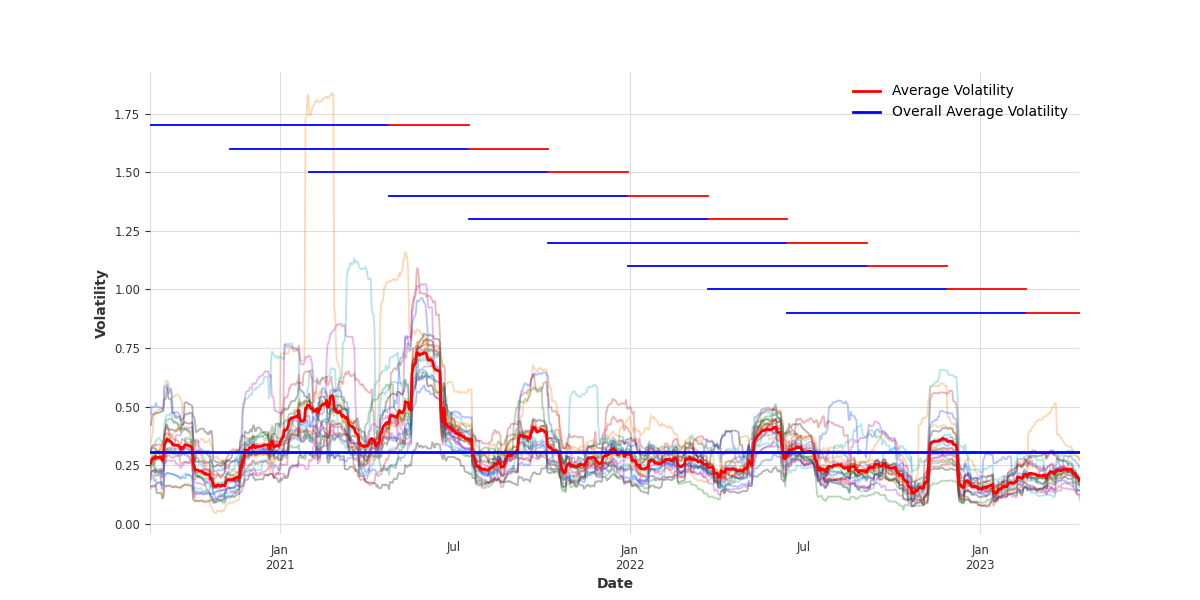
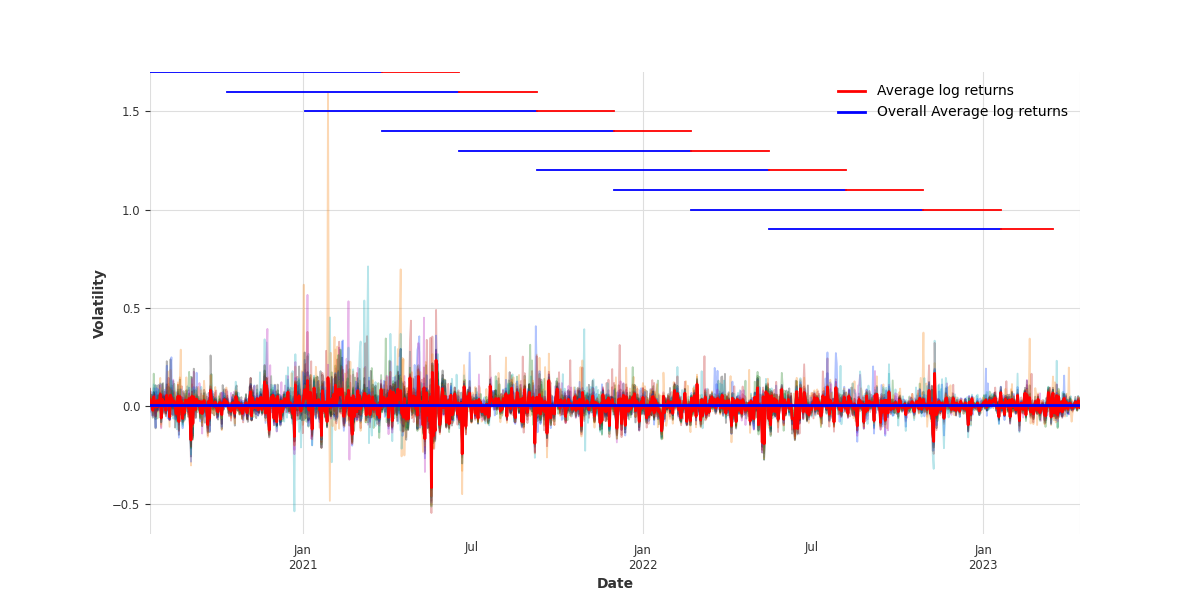
Improved hyperopt code
TODO: RMSE, MAPE, 1 other metric

diff --git a/src/experiment/train_test.py b/src/experiment/train_test.py
@@ -38,7 +38,9 @@ def get_train_test(coin="BTC", time_frame="1d", n_periods=9, test_size_percentag
     return train_set, test_set
 
 
-def plot_periods(timeframe="1d", n_periods=9, test_size_percentage=0.25):
+def plot_periods(
+    timeframe="1d", n_periods=9, test_size_percentage=0.25, col_name="volatility"
+):
     """
     Plots the volatility of all cryptocurrencies and the average volatility.
     Also shows the train and test sets for each period.
@@ -56,13 +58,15 @@ def plot_periods(timeframe="1d", n_periods=9, test_size_percentage=0.25):
     complete_df = pd.DataFrame()
 
     for coin in all_coins:
-        coin_df = read_csv(coin, timeframe, ["volatility"]).dropna()
+        coin_df = read_csv(
+            coin=coin, timeframe=timeframe, col_names=[col_name]
+        ).dropna()
 
         # Set the index to the dates from coin_df
         if complete_df.empty:
             complete_df.index = coin_df.index
 
-        complete_df[coin] = coin_df["volatility"].tolist()
+        complete_df[coin] = coin_df[col_name].tolist()
 
     ax = complete_df.plot(figsize=(12, 6), alpha=0.3, legend=False)
 
@@ -71,7 +75,7 @@ def plot_periods(timeframe="1d", n_periods=9, test_size_percentage=0.25):
 
     # Plot the average volatility as a big red line with increased width
     avg_line = plt.plot(
-        avg_volatility, color="red", linewidth=2, label="Average Volatility"
+        avg_volatility, color="red", linewidth=2, label=f"Average {col_name}"
     )
 
     # Calculate the overall average of the avg_volatility and plot it as a horizontal blue line
@@ -80,7 +84,7 @@ def plot_periods(timeframe="1d", n_periods=9, test_size_percentage=0.25):
         y=overall_avg_volatility,
         color="blue",
         linewidth=2,
-        label="Overall Average Volatility",
+        label=f"Overall Average {col_name}",
     )
 
     ts_length = 999

diff --git a/src/hyperopt/hyper_optuna.py b/src/hyperopt/hyper_optuna.py
@@ -1,23 +1,15 @@
 import optuna
 from optuna.integration import PyTorchLightningPruningCallback
-from optuna.visualization import (
-    plot_optimization_history,
-    plot_contour,
-    plot_param_importances,
-)
 import torch
-import random
 import numpy as np
-import matplotlib.pyplot as plt
 from tqdm import tqdm
-from pytorch_lightning.callbacks import Callback, EarlyStopping
+from pytorch_lightning.callbacks import EarlyStopping
 from sklearn.preprocessing import MaxAbsScaler
 
 from darts.datasets import ElectricityDataset
-from darts.models import TCNModel, LinearRegressionModel
+from darts.models import TCNModel
 from darts.dataprocessing.transformers import Scaler
 from darts.metrics import smape
-from darts.utils.likelihood_models import GaussianLikelihood
 
 all_series = ElectricityDataset(multivariate=False).load()
 
@@ -75,8 +67,7 @@ def build_fit_tcn_model(
     # detect if a GPU is available
     if torch.cuda.is_available():
         pl_trainer_kwargs = {
-            "accelerator": "gpu",
-            "devices": [0],
+            "accelerator": "auto",
             "callbacks": callbacks,
         }
         num_workers = 4
@@ -181,7 +172,7 @@ if __name__ == "__main__":
     # We use optuna to find the best hyperparameters
     study = optuna.create_study(direction="minimize")
 
-    study.optimize(objective, n_trials=1, callbacks=[print_callback])
+    study.optimize(objective, timeout=100, callbacks=[print_callback])
 
     # We could also have used a command as follows to limit the number of trials instead:
     # study.optimize(objective, n_trials=100, callbacks=[print_callback])

diff --git a/src/hyperopt/hyper_optuna2.py b/src/hyperopt/hyper_optuna2.py
@@ -48,14 +48,14 @@ def objective(trial):
 
     # detect if a GPU is available
     if torch.cuda.is_available():
-        pl_trainer_kwargs = {
-            "accelerator": "auto",
-            "callbacks": callbacks,
-        }
         num_workers = 4
     else:
-        pl_trainer_kwargs = {"callbacks": callbacks}
         num_workers = 0
+
+    pl_trainer_kwargs = {
+        "accelerator": "auto",
+        "callbacks": callbacks,
+    }
 
     # optionally also add the (scaled) year value as a past covariate
     if include_year:

diff --git a/src/hyperopt/hyper_opt_ray.py b/src/hyperopt/hyper_opt_ray.py
@@ -93,8 +93,7 @@ def train_model(model_args, callbacks, train, val):
             "callbacks": callbacks,
             "enable_progress_bar": False,
             "logger": logger,
-            "accelerator": "gpu",
-            "devices": [0],
+            "accelerator": "auto",
         },
         **model_args,
     )

diff --git a/src/main.py b/src/main.py
@@ -12,9 +12,7 @@ from analysis import (
     trend,
     volatility,
 )
-from experiment import forecast
-
-from experiment import hyper_opt_ray
+from experiment import forecast, train_test
 
 
 def analysis():
